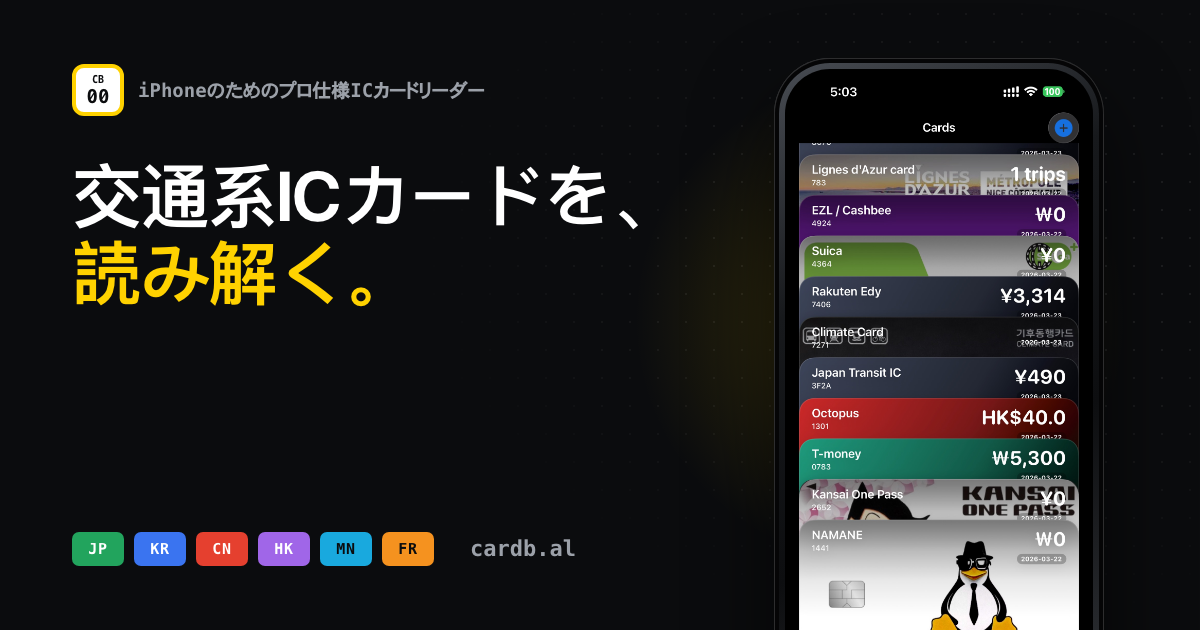
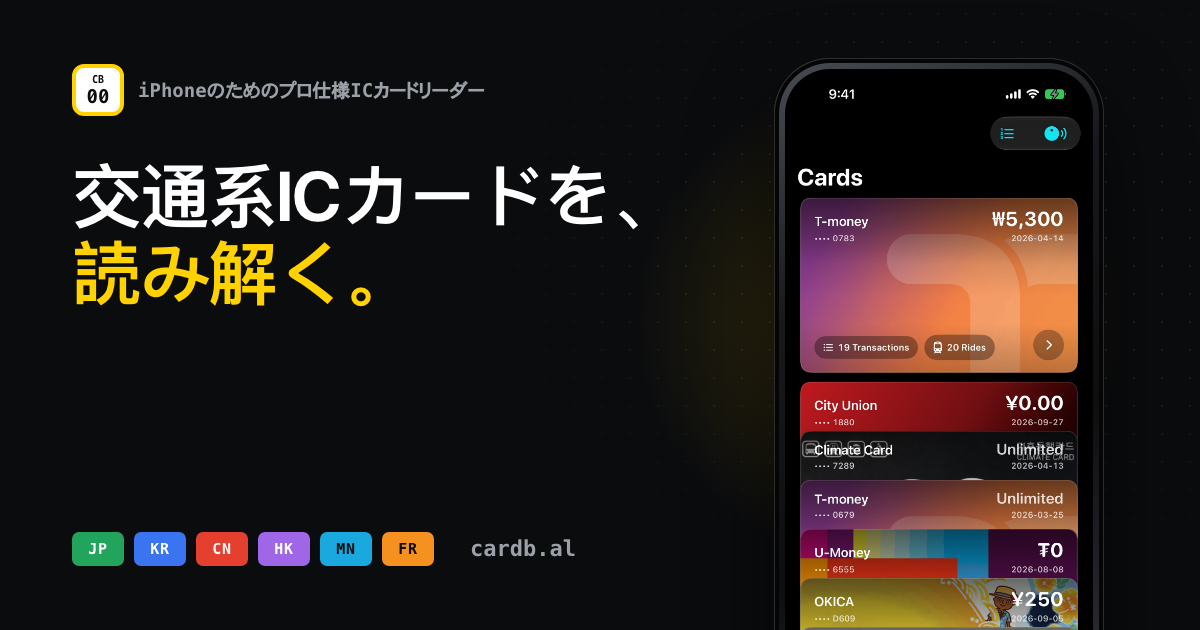
Show CardBal 2.4 Pro tools on the website
- New Pro tools section with ride history, Ride Map, Transit Atlas and
  card details captured from CardBal 2.4.0 with synced cards and
  masked card numbers
- Hero uses the 2.4.0 wallet with KR, CN, MN and JP callouts and
  replaces the old App Store wallet screenshot
- Pro nav item and copy in all five languages; share images rerendered

Changed region(s): [[0.6475, 0.1206, 0.925, 1.0], [0.6783, 0.1206, 0.7092, 0.1508]]

diff --git a/src/site.css b/src/site.css
@@ -309,6 +309,21 @@ html:is([lang=ja], [lang=zh-Hans], [lang=ko]) .readout dt { font-family: var(--l
   .stage-caption [data-stage-index] { color: var(--ink); font-weight: 700; }
 }
 
+/* Pro tools: real 2.4 screens */
+.pro-grid { display: grid; grid-template-columns: repeat(4, minmax(0, 1fr)); gap: 28px 24px; align-items: start; }
+.pro-item figure { display: grid; justify-items: center; gap: 26px; }
+.pro-item .phone { --pw: min(280px, 100%); }
+.pro-item:nth-child(even) { margin-top: 72px; }
+.pro-item figcaption { display: grid; gap: 8px; width: 100%; max-width: 280px; }
+.pro-no { color: var(--signal); font: 600 12px/1 var(--mono); letter-spacing: .04em; }
+.pro-item strong { font-size: 20px; font-weight: 650; line-height: 1.2; letter-spacing: -.02em; }
+.pro-item figcaption span:last-child { color: var(--mute-d); font-size: 15px; line-height: 1.55; }
+.pro-note { display: flex; gap: 10px; max-width: 760px; margin-top: 48px; color: var(--dim-d); font-size: 14px; line-height: 1.55; }
+.pro-note .i { width: 18px; height: 18px; margin-top: 1px; }
+.reveal-ready .pro-grid .reveal:nth-child(2) { transition-delay: .08s; }
+.reveal-ready .pro-grid .reveal:nth-child(3) { transition-delay: .16s; }
+.reveal-ready .pro-grid .reveal:nth-child(4) { transition-delay: .24s; }
+
 /* Bento */
 .bento { display: grid; grid-template-columns: repeat(12, minmax(0, 1fr)); gap: 16px; }
 .tile { position: relative; display: flex; flex-direction: column; gap: 28px; min-height: 440px; padding: clamp(26px, 2.8vw, 40px); overflow: hidden; border: 1px solid var(--rule); border-radius: 26px; background: var(--white); }
@@ -528,6 +543,8 @@ html:is([lang=ja], [lang=zh-Hans], [lang=ko]) .footer-title { font-family: inher
   .line-kr, .line-cn, .line-hk, .line-mn, .line-fr { grid-column: span 3; }
   .line-fr { grid-column: 1 / -1; }
   .ways-grid { grid-template-columns: minmax(0, 1fr); }
+  .pro-grid { grid-template-columns: repeat(2, minmax(0, 1fr)); row-gap: 64px; }
+  .pro-item:nth-child(even) { margin-top: 0; }
   .faq-layout { grid-template-columns: minmax(0, 1fr); gap: 40px; }
   .faq-head { position: static; }
   .cta-grid { grid-template-columns: minmax(0, 1fr); }
@@ -582,6 +599,11 @@ html:is([lang=ja], [lang=zh-Hans], [lang=ko]) .footer-title { font-family: inher
   .trips li:nth-child(n+4) { display: none; }
   .fan { height: 190px; }
   .lines { gap: 12px; }
+  .pro-grid { display: flex; gap: 16px; overflow-x: auto; margin-inline: calc(-1 * var(--gutter)); padding: 4px var(--gutter) 8px; scroll-snap-type: x mandatory; scroll-padding-inline: var(--gutter); scrollbar-width: none; }
+  .pro-grid::-webkit-scrollbar { display: none; }
+  .pro-item { flex: 0 0 min(76%, 300px); scroll-snap-align: start; }
+  .pro-item .phone { --pw: min(260px, 66vw); }
+  .pro-note { margin-top: 32px; }
   .line, .line-kr, .line-cn, .line-hk, .line-mn, .line-fr { grid-column: 1 / -1; }
   .stations { row-gap: 22px; margin: 28px 0 24px; }
   .stations li { padding-right: 18px; font-size: 14.5px; }

diff --git a/README.md b/README.md
@@ -27,7 +27,7 @@ Setup status on 2026-10-02: the public repository is pushed and builds successfu
 
 ## Design
 
-The site is designed as a transit wayfinding system for a pro card reader: signage black, platform yellow (`--signal`), and one line colour per region (JP, KR, CN, HK, MN, FR). Sections are numbered like station stops (`CB 00`–`CB 06`). The page runs hero → split-flap "Now reading" board → scroll story (one sticky phone, three real screenshots with readouts) → feature tiles → network map of supported cards → two ways to read (physical card, Apple Wallet Service Mode) → FAQ → closing App Store sign.
+The site is designed as a transit wayfinding system for a pro card reader: signage black, platform yellow (`--signal`), and one line colour per region (JP, KR, CN, HK, MN, FR). Sections are numbered like station stops (`CB 00`–`CB 07`). The page runs hero → split-flap "Now reading" board → scroll story (one sticky phone, three real screenshots with readouts) → Pro tools (ride history, Ride Map, Transit Atlas, card details) → feature tiles → network map of supported cards → two ways to read (physical card, Apple Wallet Service Mode) → FAQ → closing App Store sign.
 
 All tokens live at the top of `src/site.css`. Motion respects `prefers-reduced-motion`, and every section reads in full without JavaScript; `src/site.js` only adds the board animation, scroll story, reveals, menus, and section highlighting.
 
@@ -43,7 +43,14 @@ Each language has a complete, indexable static page, including its demo, FAQ, me
 
 The root includes the complete English page. A small inline script in `<head>` (allowed by its SHA-256 hash in the generated CSP) chooses a previously selected or supported browser language before first paint. Explicit language URLs always take priority. Language selection remains available without JavaScript, as do the main content, App Store links, and expandable FAQs.
 
-Edit `src/locales.mjs`, `src/site.css`, `src/site.js`, and `scripts/build.mjs`. The build rejects any locale whose keys or list lengths differ from English. The hero, scroll story, and share images use real, unaltered iPhone screenshots from the app's public App Store listing (`6760978958`); `-640` and `-900` copies are plain downscales for responsive `srcset`. The images show the English interface in every website locale; captions and alternate text are translated. `src/assets/screenshots/manifest.json` records each Apple CDN source, resolution, retrieval date, checksum, and the derivative sizes. Readout values on the page are transcribed from the matching screenshots. The website does not perform an NFC scan.
+Edit `src/locales.mjs`, `src/site.css`, `src/site.js`, and `scripts/build.mjs`. The build rejects any locale whose keys or list lengths differ from English.
+
+Screenshots come from two sources, both recorded in `src/assets/screenshots/manifest.json`:
+
+- `edy`, `climate`, `octopus`: real, unaltered iPhone screenshots from the app's public App Store listing (`6760978958`), used in the scroll story.
+- `pro-*`: CardBal 2.4.0 captured on the iPhone 17 Pro Simulator in dark appearance, with the developer's own iCloud-synced cards and the app's masked serial-number setting. They power the hero, the Pro tools section, and the share images.
+
+`-640` and `-900` copies are plain downscales for responsive `srcset`. The images show the English interface in every website locale; captions and alternate text are translated. Readout values on the page are transcribed from the matching screenshots. The website does not perform an NFC scan.
 
 Supported cards and standards follow the live App Store listing (FeliCa, KS X 6924, T-Union with 300+ city cards, Calypso) and the app's public source ([iebb/TransitICReader](https://github.com/iebb/TransitICReader)) for FeliCa system codes, U-Money, raw data, and read-only Developer Mode probing.
 
